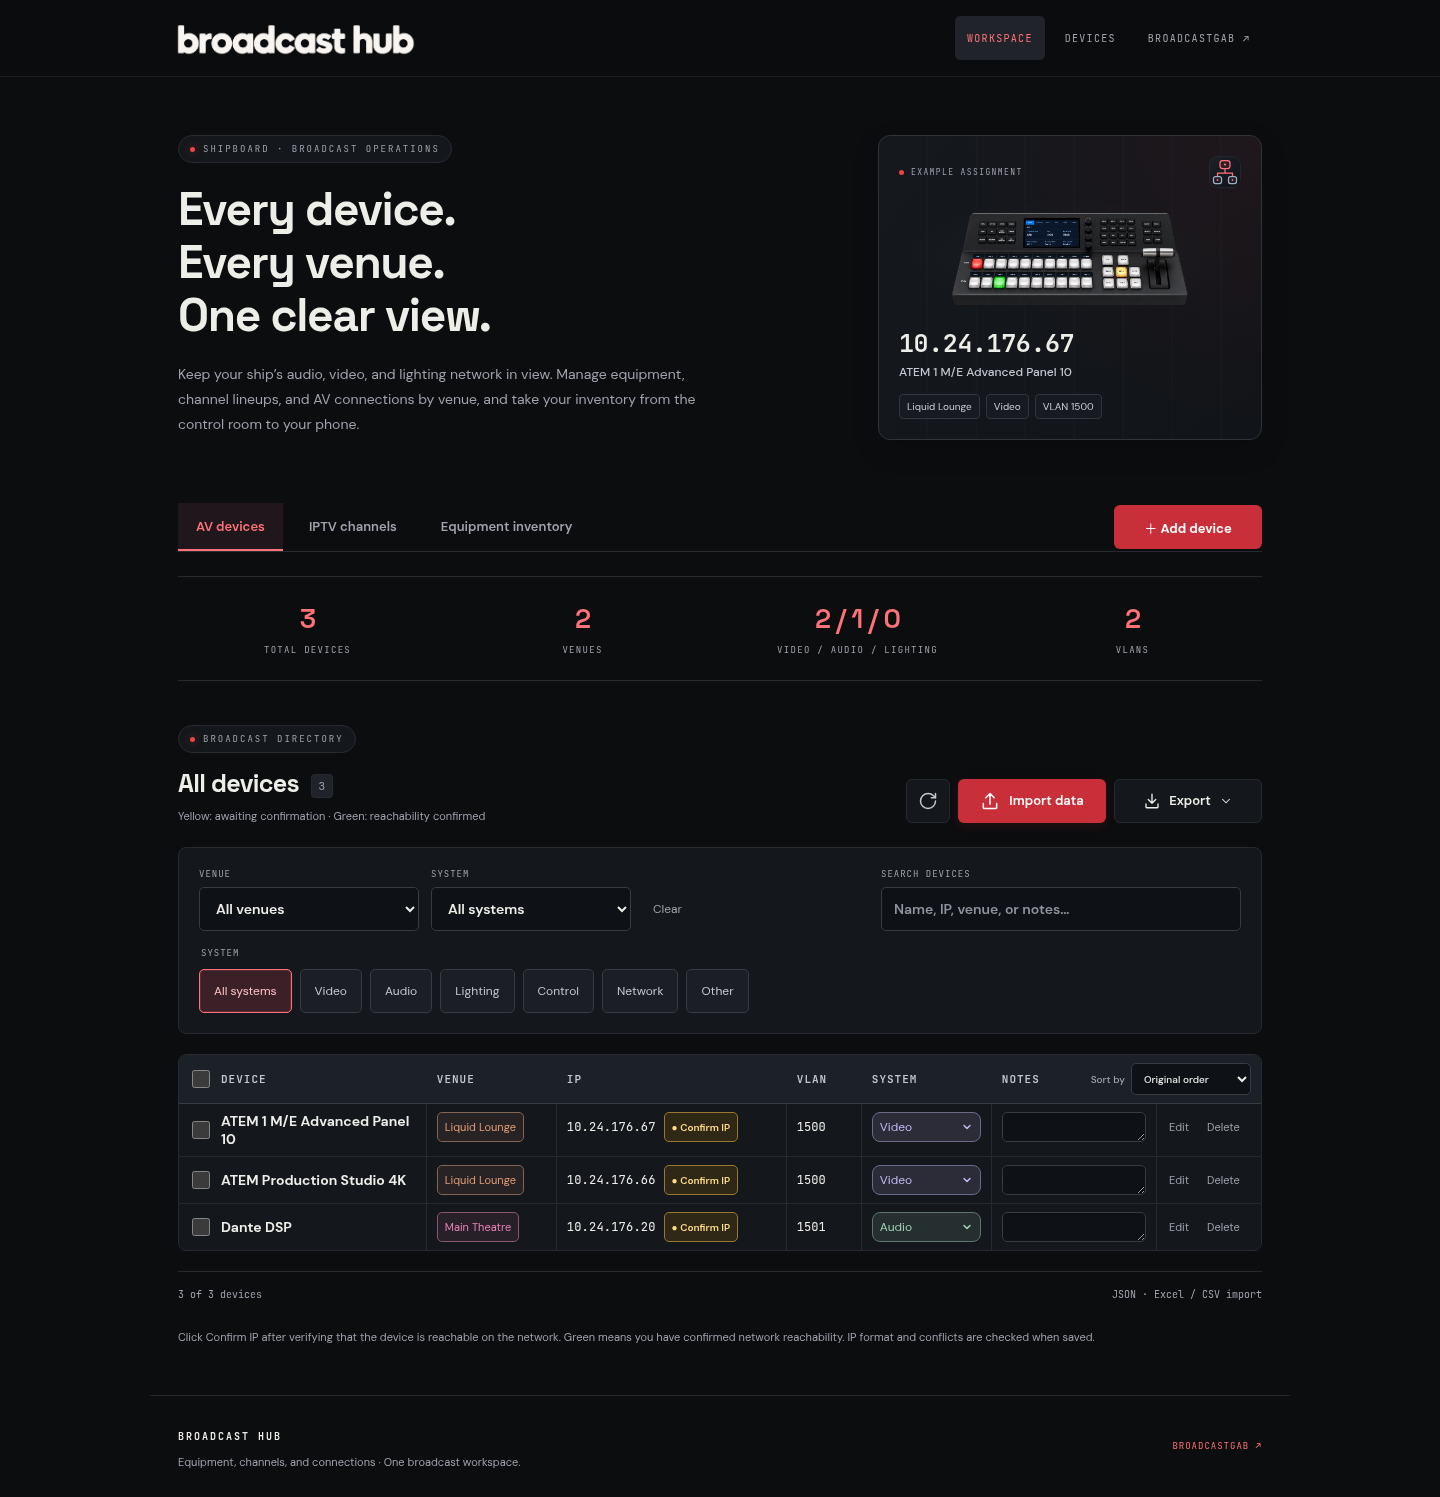
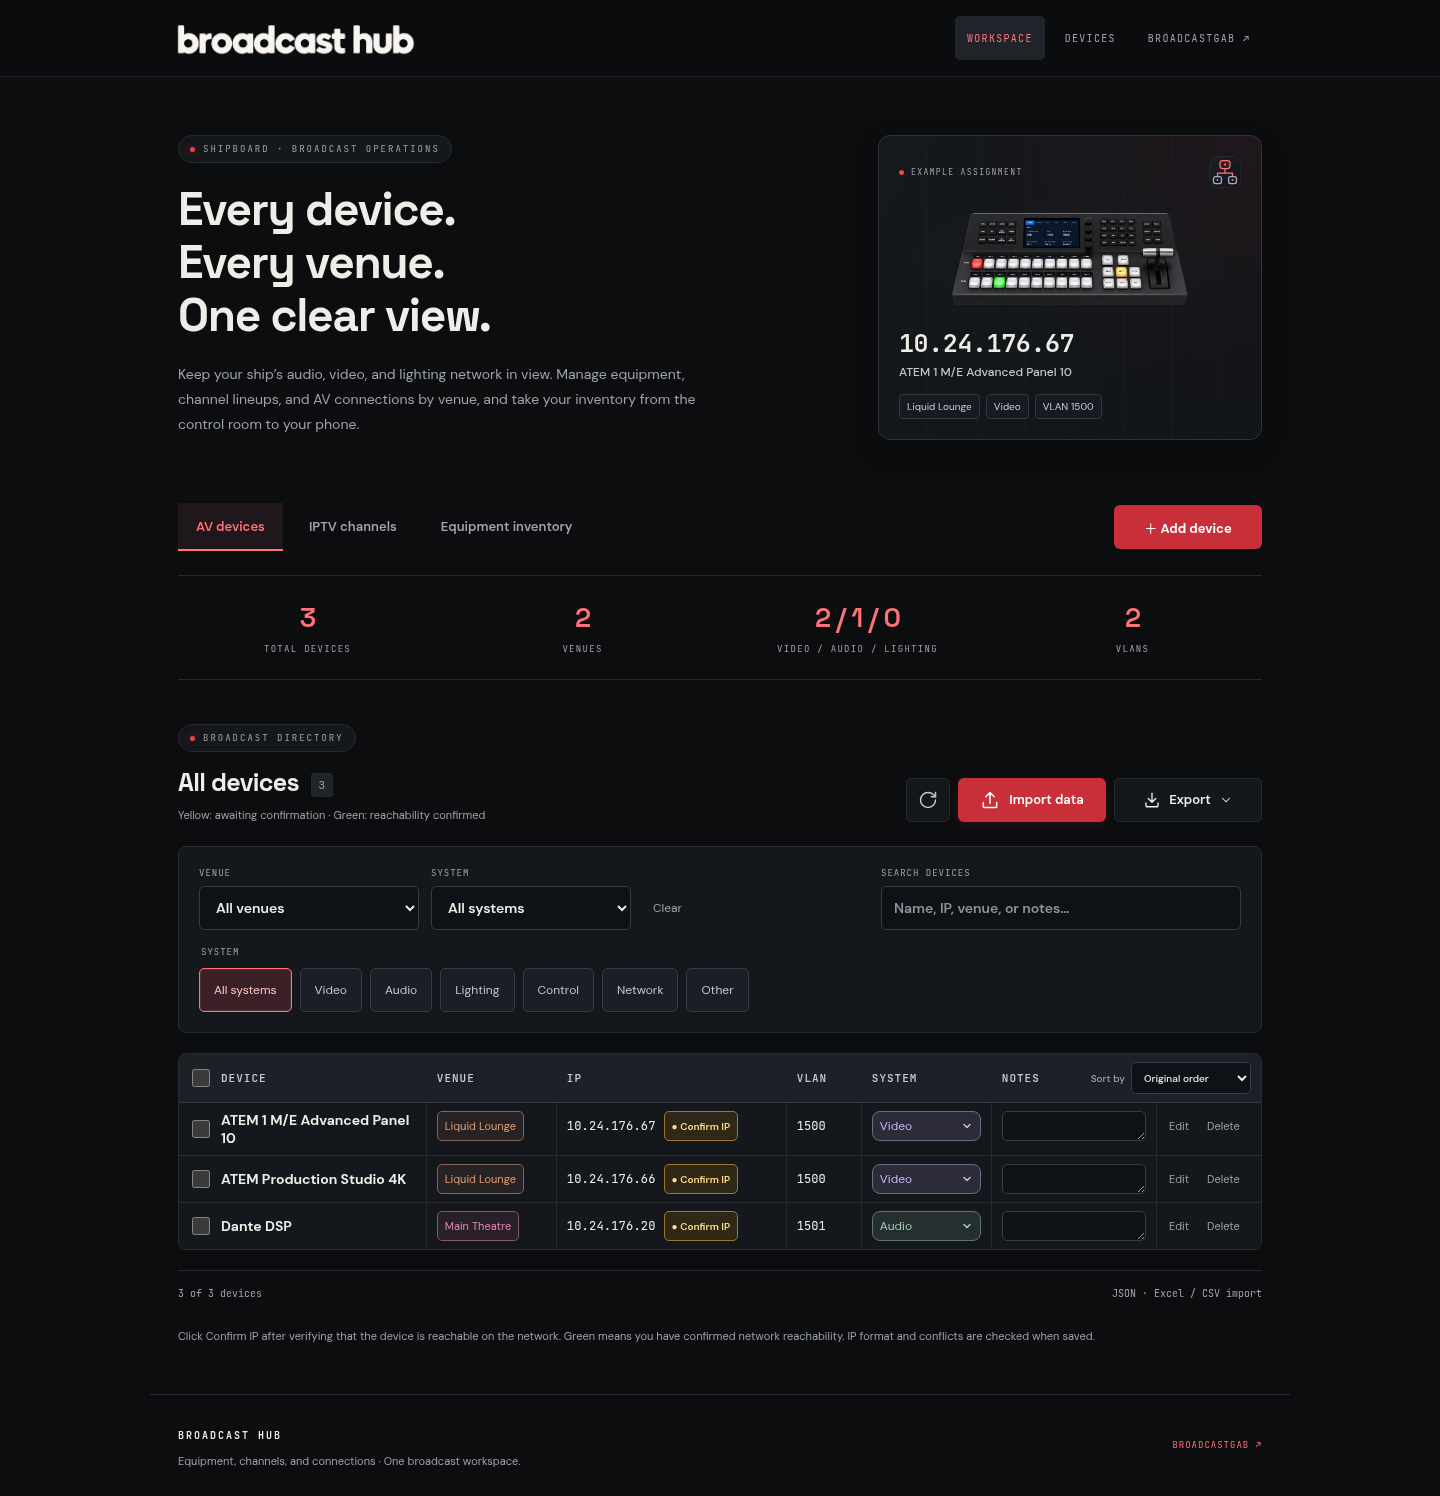
Remove divider below inventory tabs

diff --git a/static/style.css b/static/style.css
@@ -388,7 +388,7 @@ button.system-select{display:flex;justify-content:space-between;align-items:cent
 
 .hero-copy{display:flex;flex-direction:column;align-items:flex-start}
 
-.workspace-bar{display:flex;align-items:center;justify-content:space-between;gap:16px;margin-bottom:24px;border-bottom:1px solid var(--border)}
+.workspace-bar{display:flex;align-items:center;justify-content:space-between;gap:16px;margin-bottom:24px}
 .workspace-bar .inventory-tabs{flex:1;min-width:0;margin:0;border:0;flex-wrap:nowrap;overflow-x:auto;scrollbar-width:none}
 .workspace-bar .inventory-tabs::-webkit-scrollbar{display:none}
 .workspace-bar .inventory-tabs button{flex-shrink:0;white-space:nowrap}
